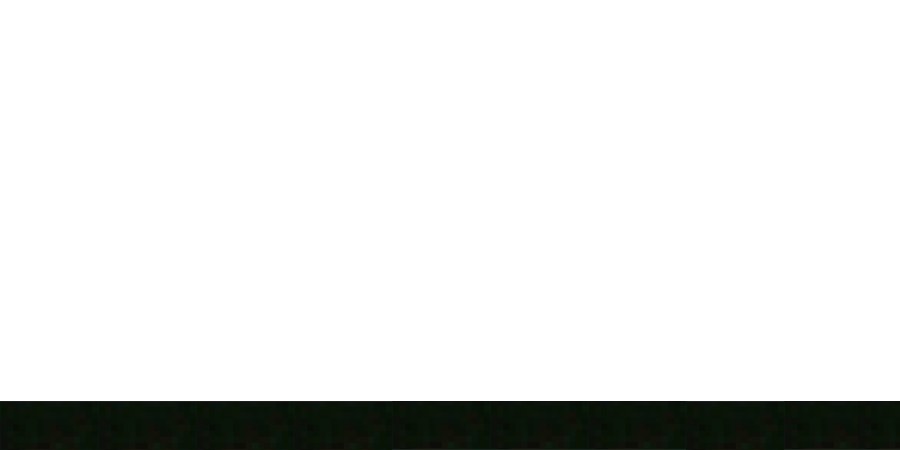
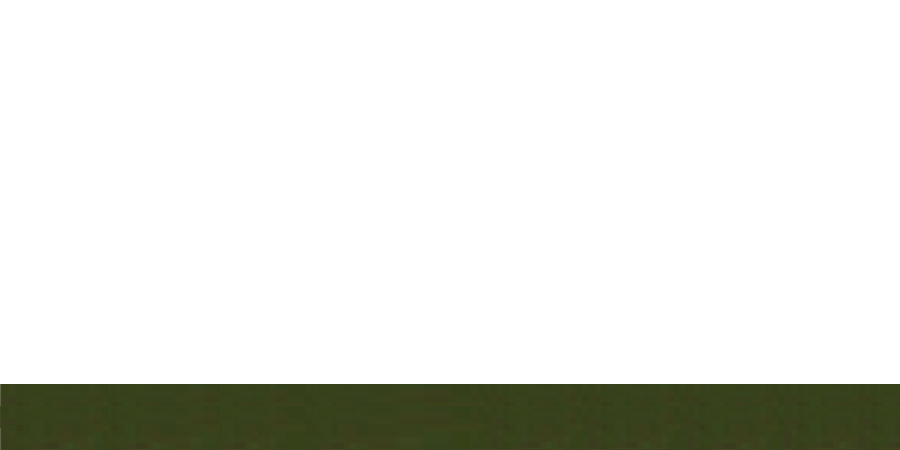
Adjust flood spawning timing and speed, flood appearance and background
- Flood now spawn at a slightly wider interval to provide enough time for player to jump over each flood
- Flood speed increased so that flood can pass over player completely when the player jumps
- Flood repixelated to account for unpixelation from resizing original flood image
- Ground lightened and moved up to account for player walking model
- Background image moved up in level to match ground

Changed region(s): [[0.0, 0.84, 1.0, 1.0]]

diff --git a/code/main.py b/code/main.py
@@ -25,7 +25,7 @@ class Player(pygame.sprite.Sprite):
     def player_input(self):
         keys = pygame.key.get_pressed()
         if keys[pygame.K_SPACE] and self.rect.bottom >= GROUND:
-            self.gravity = -21 #jump
+            self.gravity = -22 #jump
 
     def apply_gravity(self):
         #applies when jumping, simulates falling 
@@ -95,7 +95,7 @@ class Obstacle(pygame.sprite.Sprite):
 
     def update(self):
         self.animation_state()
-        self.rect.x -= 4
+        self.rect.x -= 9
         self.destroy()
 
 class Level:
@@ -131,7 +131,7 @@ class Level:
         self.get_input()
 
         #display
-        self.display_surface.blit(self.level_bg, self.level_bg.get_rect(midbottom = (450,HEIGHT+50)))
+        self.display_surface.blit(self.level_bg, self.level_bg.get_rect(midbottom = (450,HEIGHT-50)))
         self.display_surface.blit(self.ground, self.ground.get_rect(center = (450, 225)))
         
         self.player.update()
@@ -194,8 +194,12 @@ if __name__ == '__main__':
 
     #timers
     obstacle_timer = pygame.USEREVENT + 1
-    pygame.time.set_timer(obstacle_timer, 1500) #for spawning the flood
-    
+    pygame.time.set_timer(obstacle_timer, 1200) #for spawning the flood
+
+    #TODO: 
+    #    - Need to re-pixelate grunt and flood due to resizing
+    #    - Change color of ground to match background and move up a bit 
+
     #flood obstacles
     obstacle_group = pygame.sprite.Group()
     
